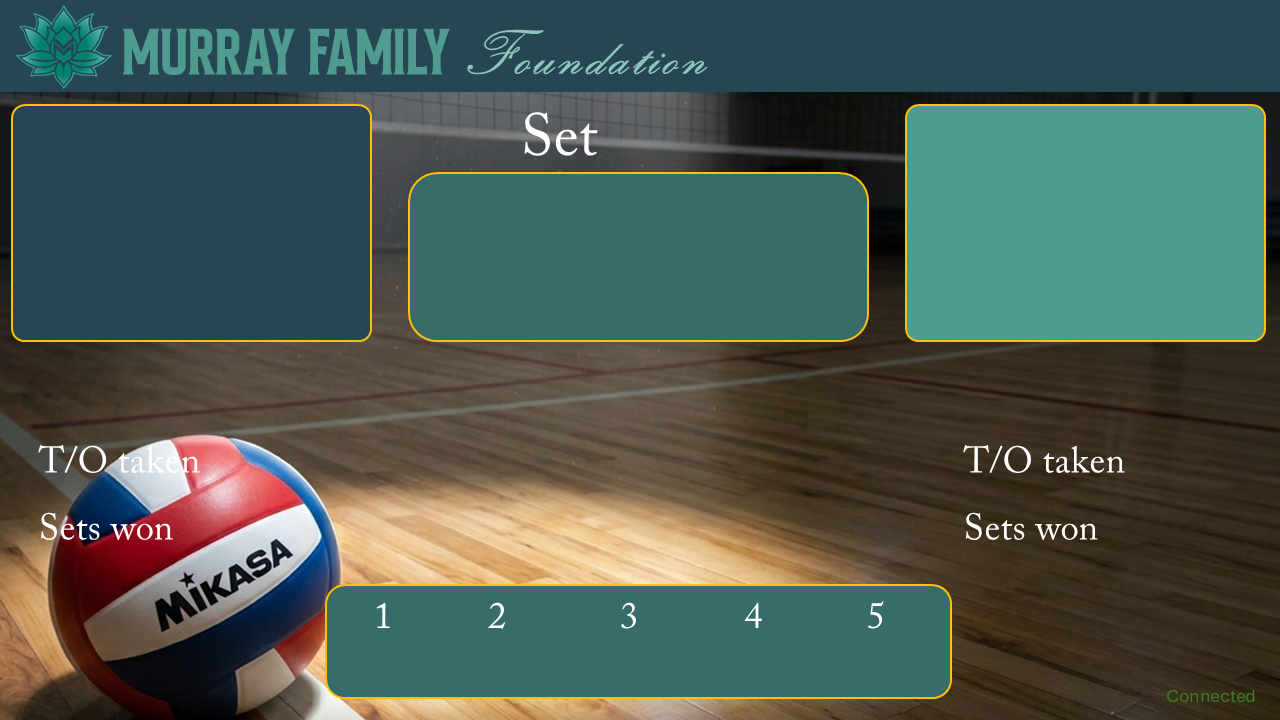
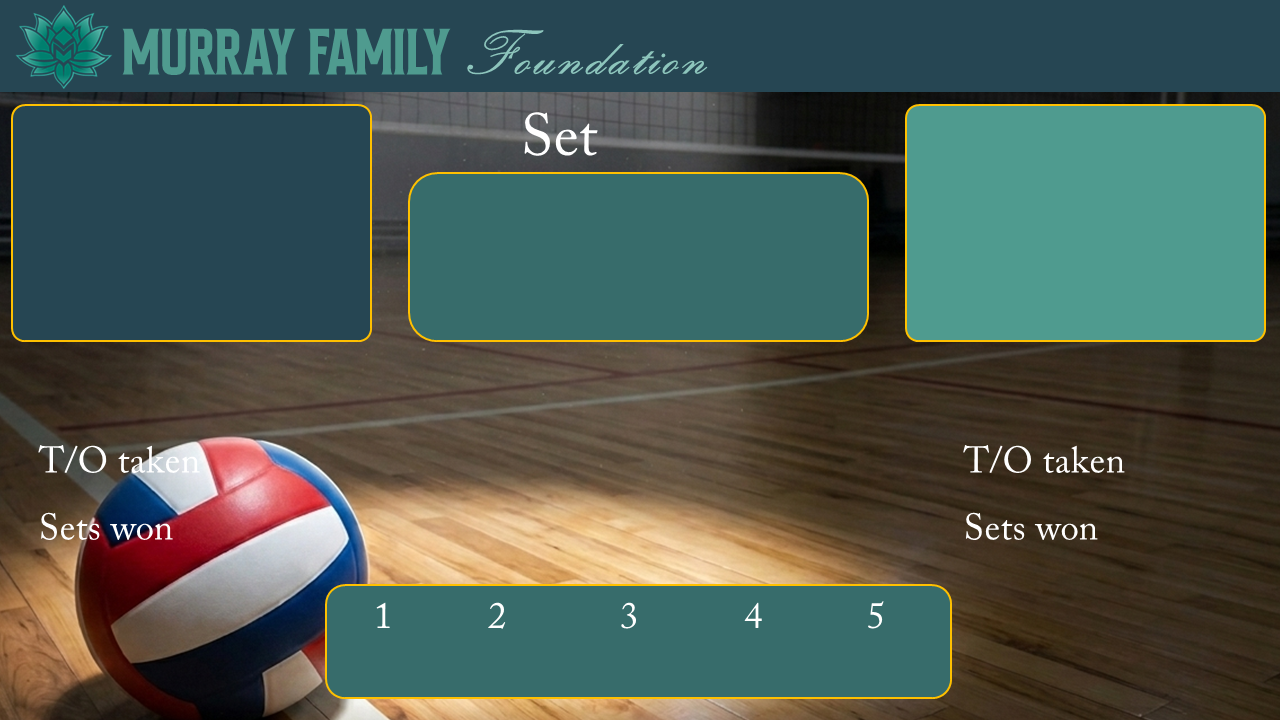
good - before new background & TO boxes

diff --git a/src/components/ControllerView.tsx b/src/components/ControllerView.tsx
@@ -146,9 +146,6 @@ export function ControllerView({
   onStartNewMatch,
   onSetCurrentSetValues
 }: ControllerViewProps) {
-  const selectedMinutes = CLOCK_MINUTE_CHOICES.includes(state.clockSecondsRemaining / 60)
-    ? state.clockSecondsRemaining / 60
-    : 0;
   const [isMatchConfigModalOpen, setMatchConfigModalOpen] = useState(false);
   const [isEditValuesModalOpen, setEditValuesModalOpen] = useState(false);
   const [isNewMatchConfirmOpen, setNewMatchConfirmOpen] = useState(false);
@@ -168,6 +165,7 @@ export function ControllerView({
   const [timeOfDayLabel, setTimeOfDayLabel] = useState(() => formatHourMinute(new Date()));
   const [isManualClockModalOpen, setManualClockModalOpen] = useState(false);
   const [manualClockDigits, setManualClockDigits] = useState("");
+  const [quickSetSelection, setQuickSetSelection] = useState("");
 
   useEffect(() => {
     const intervalId = window.setInterval(() => {
@@ -299,6 +297,12 @@ export function ControllerView({
     closeManualClockModal();
   };
 
+  const applyQuickSet = (minutes: number) => {
+    onSetClock(minutes * 60);
+    // Reset to placeholder so re-selecting the same value still applies.
+    setQuickSetSelection("");
+  };
+
   const saveEditValues = () => {
     const homeScore = Number.parseInt(editHomeScore, 10);
     const visitorScore = Number.parseInt(editVisitorScore, 10);
@@ -390,12 +394,17 @@ export function ControllerView({
           <div className="clock-controls-grid">
             <div className="clock-set-column">
               <select
-                value={selectedMinutes}
-                onChange={(event) => onSetClock(Number(event.target.value) * 60)}
+                value={quickSetSelection}
+                onChange={(event) => {
+                  const selectedMinutes = Number(event.target.value);
+                  if (!Number.isFinite(selectedMinutes)) return;
+                  applyQuickSet(selectedMinutes);
+                }}
               >
+                <option value="">Quick Set</option>
                 {CLOCK_MINUTE_CHOICES.map((minutes) => (
                   <option key={minutes} value={minutes}>
-                    Quick Set {minutes}:00
+                    {minutes}:00
                   </option>
                 ))}
               </select>

diff --git a/src/styles.css b/src/styles.css
@@ -405,6 +405,8 @@ button:active {
 
 .clock-set-column select {
   padding: 0 0.75rem;
+  text-align: center;
+  text-align-last: center;
 }
 
 .clock-set-column select option {
